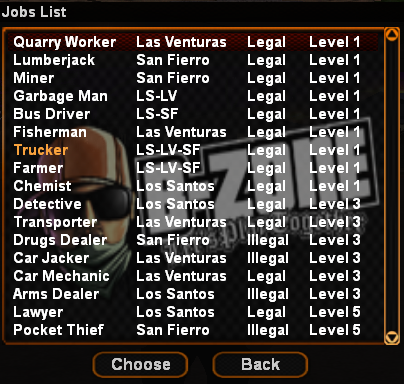
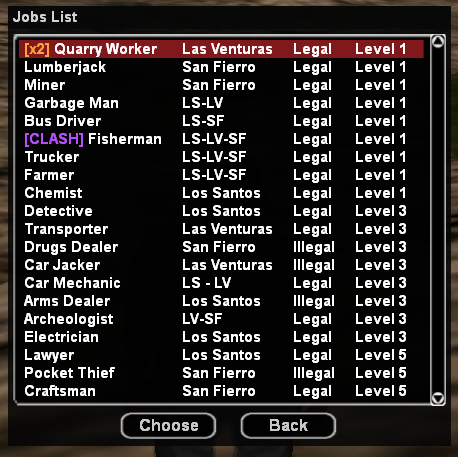
New/Improvments & Changes
- safebox moved from other systems to shop
- updated /jobs interface image
- updated job of the day display
- added tutorial in main page for download game via torrent
- added job clash page
- added craftman airship delivery method
- increased craftman material limit for skill 10 to 1999
- modified Egyptian trade reroll mechanic

diff --git a/docs/wiki-info/main_page.md b/docs/wiki-info/main_page.md
@@ -15,8 +15,26 @@
 <h1 align="left" style="padding-top: 50px; font-weight: 700">Joacă SA-MP</h1>
 <div align="center">
 <img src="https://b-zone.ro/assets/icons/gta_sa.jpg" width="35" style="vertical-align:middle; border-radius: 5px;"> <b>1. Instalează GTA San Andreas</b></img>
-</p>Descarcă fișierul executabil din link-ul de mai jos pentru a instala jocul de bază.<br>Locația de instalare o puteți alege oriunde doriți în PC, doar să o rețineți deoarece aveți nevoie de ea să știți unde să înstalați SA-MP.</p>
-<a href="https://b-zone.ro/downloads/GTA_B-Zone_Installer.exe"><button style="padding-top: 15px; padding-bottom: 15px; padding-left: 40px;padding-right: 40px; background-color: #7453f5; border-color:#7453f5; border-style: solid; border-radius: 10px; font-family: Lucida Sans Unicode; font-weight: 700; letter-spacing: 2px; color: white; font-size: 1.25rem; line-height: 1.75rem; cursor:pointer; font-size: 18px;">DESCARCĂ</button></a>
+<p style="padding-top: 20px;"><span style="font-weight: bold; font-size: 24px; text-decoration: underline; letter-spacing: 2px;">METODA I</span><br><span style="font-weight: bold; letter-spacing: 1px;">PRIN FIȘIER INSTALLER (.exe)</span></p>
+<p style="line-height: 35px;">Descarcă fișierul executabil din link-ul de mai jos pentru a instala jocul de bază.<br>Locația de instalare o puteți alege oriunde doriți în PC, doar să o rețineți deoarece aveți nevoie de ea să știți unde să înstalați SA-MP.</p>
+<a href="https://b-zone.ro/downloads/GTA_B-Zone_Installer.exe"><button style="margin-top: 15px; padding-top: 15px; padding-bottom: 15px; padding-left: 40px;padding-right: 40px; background-color: #7453f5; border-color:#7453f5; border-style: solid; border-radius: 10px; font-family: Lucida Sans Unicode; font-weight: 700; letter-spacing: 2px; color: white; font-size: 1.25rem; line-height: 1.75rem; cursor:pointer; font-size: 18px;">DESCARCĂ</button></a>
+<p style="padding-top: 60px;"><span style="font-weight: bold; font-size: 24px; text-decoration: underline; letter-spacing: 2px;">METODA II</span><br><span style="font-weight:bold; letter-spacing: 1px;">PINTR-O UNITATE VIRTUALA (.iso)</span></p>
+<details>
+<summary style="font-weight: bold; font-style: italic;">Citeste mai mult</summary>
+<p style="line-height: 35px;"><b>1.</b> Pentru a putea descarca jocul GTA San Andreas, aveti nevoie de aplicația <a href="http://www.utorrent.com/intl/en/downloads/complete/track/stable/os/windows">µTorrent</a>.<br>
+<b>2.</b> Descărcarea imaginii .iso este facilitată de <a href="magnet:?xt=urn:btih:6abb5be16784ee66dd2f1dbd5cb86730464974e0&dn=Grand+Theft+Auto+San+Andreas-HOODLUM+&tr=udp%3A%2F%2Ftracker.leechers-paradise.org%3A6969&tr=udp%3A%2F%2Fzer0day.ch%3A1337&tr=udp%3A%2F%2Fopen.demonii.com%3A1337&tr=udp%3A%2F%2Ftracker.coppersurfer.tk%3A6969&tr=udp%3A%2F%2Fexodus.desync.com%3A6969">acest torrent (magnet) (3.95 GB)</a> pe care trebuie să îl accesați.<br>
+<b>3.</b> Aplicația µTorrent va începe descărcarea jocului GTA San Andreas.<br>
+<b>4.</b> După finalizarea descărcarii jocului, veți găsi un fișier denumit <b><i>hlm-gtasa.iso</i></b>. Pentru a deschide fișierul respectiv, există mai multe soluții, cea mai eficientă fiind folosirea software-ului <a href="http://www.disk-tools.com/download/daemon">Daemon Tools</a>.<br>
+<b>5.</b> După descărcarea și instalarea software-ului Daemon Tools, se va apăsa click-dreapta pe fișierul <b><i>hlm-gtasa.iso</i></b>, se va selecta <b>Deschide cu/Open with</b> și se va apăsa pe campul care descrie Daemon Tools.<br>
+<b>6.</b> În cateva momente, computerul se va comporta ca și cum ați fi introdus un stick USB, iar în <b>My Computer</b> va aparea o nouă unitate virtuală (similara cu partițiile computer-ului, Local Disk D, Local Disk C, etc.).<br>
+<b>7.</b> Deschideți respectiva unitate virtuală, care poartă numele jocului și accesați fișierul <b><i>setup.exe</i></b>.<br>
+<b>8.</b> Urmați instructiunile oferite și instalați GTA San Andreas. Este recomandat, dar nu obligatoriu, să instalați jocul intr-o partiție diferită de cea în care sistemul de operare este instalat.<br>
+<b>9.</b> După finalizarea instalarii jocului GTA San Andreas, accesați din nou unitatea virtuală creată la punctul 6. Veți găsi un folder denumit <b><i>HOODLUM</i></b>, accesați-l și copiați fișierele din conținutul acestuia, după care plasați-le în folderul în care tocmai ați instalat jocul GTA San Andreas (copy & paste).<br>
+<b>10.</b> După finalizarea pașilor anteriori, dacă doriți să eliminați unitatea virtuala creată la punctul 6, apăsați click dreapta pe aceasta și selectați <b>Eject</b>.<br>
+<b>11.</b> De asemenea, software-urile folosite pentru descărcarea jocului (Daemon Tools și µTorrent) se pot dezinstala din panoul de control al computer-ului.</p>
+
+<iframe width="560" height="315" src="https://www.youtube.com/embed/4FV8EzWFpjw" frameborder="0" allowfullscreen></iframe>
+</details>
 </div>
 
 <div align="center" style="padding-top:100px">

diff --git a/docs/wiki-info/main_page.en.md b/docs/wiki-info/main_page.en.md
@@ -15,8 +15,26 @@
 <h1 align="left" style="padding-top: 50px; font-weight: 700">Play SA-MP</h1>
 <div align="center">
 <img src="https://b-zone.ro/assets/icons/gta_sa.jpg" width="35" style="vertical-align:middle; border-radius: 5px;"> <b>1. Install GTA San Andreas</b></img>
-</p>Download the executable file from the link below and install the main game.<br>You can choose the installation location anywhere you want on your PC, just remember it because you need it to know where to install SA-MP.</p>
-<a href="https://b-zone.ro/downloads/GTA_B-Zone_Installer.exe"><button style="padding-top: 15px; padding-bottom: 15px; padding-left: 40px;padding-right: 40px; background-color: #7453f5; border-color:#7453f5; border-style: solid; border-radius: 10px; font-family: Lucida Sans Unicode; font-weight: 700; letter-spacing: 2px; color: white; font-size: 1.25rem; line-height: 1.75rem; cursor:pointer; font-size: 18px;">DOWNLOAD</button></a>
+<p style="padding-top: 20px;"><span style="font-weight: bold; font-size: 24px; text-decoration: underline; letter-spacing: 2px;">METHOD I</span><br><span style="font-weight: bold; letter-spacing: 1px;">VIA INSTALLER FILE (.exe)</span></p>
+<p style="line-height: 35px;">Download the executable file from the link below to install the base game.<br>You can choose the installation location anywhere you want on your PC, just remember it because you need it to know where to install SA-MP.</p>
+<a href="https://b-zone.ro/downloads/GTA_B-Zone_Installer.exe"><button style="margin-top: 15px; padding-top: 15px; padding-bottom: 15px; padding-left: 40px; padding-right: 40px; background-color: #7453f5; border-color: #7453f5; border-style: solid; border-radius: 10px; font-family: Lucida Sans Unicode; font-weight: 700; letter-spacing: 2px; color: white; font-size: 1.25rem; line-height: 1.75rem; cursor: pointer; font-size: 18px;">DOWNLOAD</button></a>
+<p style="padding-top: 60px;"><span style="font-weight: bold; font-size: 24px; text-decoration: underline; letter-spacing: 2px;">METHOD II</span><br><span style="font-weight:bold; letter-spacing: 1px;">VIA VIRTUAL DRIVE (.iso)</span></p>
+<details>
+<summary style="font-weight: bold; font-style: italic;">Read more</summary>
+<p style="line-height: 35px;"><b>1.</b> To download the GTA San Andreas game, you need the <a href="http://www.utorrent.com/intl/en/downloads/complete/track/stable/os/windows">µTorrent</a> application.<br>
+<b>2.</b> Downloading the .iso image is facilitated by <a href="magnet:?xt=urn:btih:6abb5be16784ee66dd2f1dbd5cb86730464974e0&dn=Grand+Theft+Auto+San+Andreas-HOODLUM+&tr=udp%3A%2F%2Ftracker.leechers-paradise.org%3A6969&tr=udp%3A%2F%2Fzer0day.ch%3A1337&tr=udp%3A%2F%2Fopen.demonii.com%3A1337&tr=udp%3A%2F%2Ftracker.coppersurfer.tk%3A6969&tr=udp%3A%2F%2Fexodus.desync.com%3A6969">this torrent (magnet) (3.95 GB)</a> that you need to access.<br>
+<b>3.</b> The application µTorrent will start downloading the GTA San Andreas game.<br>
+<b>4.</b> After the game download is complete, you will find a file named <b><i>hlm-gtasa.iso</i></b>. To open the file, there are several solutions, the most efficient being the use of the <a href="http://www.disk-tools.com/download/daemon">Daemon Tools</a> software.<br>
+<b>5.</b> After downloading and installing the Daemon Tools software, right-click on the <b><i>hlm-gtasa.iso</i></b> file, select <b>Open with</b> and click on the field that describes Daemon Tools.<br>
+<b>6.</b> In a few moments, the computer will behave as if you had inserted a USB stick, and a new virtual drive will appear in <b>My Computer</b> (similar to the computer partitions, Local Disk D, Local Disk C, etc.).<br>
+<b>7.</b> Open the virtual drive, which bears the name of the game, and access the file <b><i>setup.exe</i></b>.<br>
+<b>8.</b> Follow the instructions provided and install GTA San Andreas. It is recommended, but not mandatory, to install the game in a different partition than the one where the operating system is installed.<br>
+<b>9.</b> After completing the installation of the GTA San Andreas game, access the virtual drive created in point 6 again. You will find a folder called <b><i>HOODLUM</i></b>, access it and copy the files from its contents, then place them in the folder where you just installed the GTA San Andreas game (copy & paste).<br>
+<b>10.</b> After completing the previous steps, if you want to remove the virtual drive created in point 6, right-click on it and select <b>Eject</b>.<br>
+<b>11.</b> Also, the software used to download the game (Daemon Tools and µTorrent) can be uninstalled from the computer's control panel.</p>
+
+<iframe width="560" height="315" src="https://www.youtube.com/embed/4FV8EzWFpjw" frameborder="0" allowfullscreen></iframe>
+</details>
 </div>
 
 <div align="center" style="padding-top:100px">

diff --git a/docs/wiki-info/other-systems/egyptian-trader-shop.en.md b/docs/wiki-info/other-systems/egyptian-trader-shop.en.md
@@ -60,14 +60,24 @@ The skin upgrade system is based on Tickets and Fragments. These are very well k
   <figcaption>Skin viewing #2</figcaption>
 </figure>
 
-## Reroll mechanic
-* If the player doesn't like the bonuses received and wants to change them without changing the skin completely, they can change them **using the Reroll option** at the *Egyptian Trader*.
-* Note that you will have to pay the full price again and you may receive weaker or better bonuses depending on luck.
-* If you choose to use the *reroll option* and own a <span style="color:#11c8fa">**Diamond**</span> Skin, you will receive another 2 random bonuses that will replace the existing bonuses.
-* Note: Bonuses are random, so there is a chance to receive the same bonuses but with different values.*
-* If you own an <span style="color:#fa8e0a">**Onyx**</span> Skin and use the *reroll option*, all 4 bonuses on the skin will be reset.
+## Reroll Mechanic
+* If the player does not like the bonuses received and wants to change them without changing the skin completely, he can change them **using the Reroll option** at the *Egyptian Trader*.
+* The review consists of selecting the bonuses that need to be changed and those that should be kept.
+* Keep in mind that you will have to pay an amount of money, mission points and tickets of the respective skin type depending on how many bonuses you want to keep on the current skin.
+* There is a possibility that the bonuses you receive will be weaker or better depending on luck.
+* An interface will open with all your bonuses on the skin and several buttons with an **X** on the right, immediately after opening the interface.
+* These buttons change the status of keeping the bonus when pressed.
+    * If the button to the right of the bonus name is marked with an **X**, pressing it will mark the button with a check mark.
+    * A check mark marks a bonus that will be **CHANGED**, **X** marks a bonus that will be **KEPT**. **Be careful not to confuse them!**
+* After this process, the **CONFIRM** button can be pressed and will open a confirmation window with all the necessary information, such as which bonuses will be exchanged and which will be kept.
+* The reroll prices are as follows:
+    * One bonus will cost **$1,000,000** and **50 MP**. These requirements will increase for each bonus that is exchanged on the skin, as follows:
+        * 2 exchanged bonuses will require **$2,000,000** and **100 MP**.
+        * 3 exchanged bonuses will require **$3,000,000** and **150 MP**.
+  * If you exchange **1 or 2 bonuses**, you will need **1 ticket** of the skin type.
+  * If you exchange **3 or 4 bonuses**, you will need **2 tickets** of the skin type.
 
-## Fusion mechanic
+## Fusion Mechanic
 
 * Players will be able to fuse two <span style="color:#11c8fa">**Diamond**</span> skins or two <span style="color:#fa8e0a">**Onyx**</span> skins regardless of gender and will keep only one skin at the end of the fusion (_see image **#3**_).
 
@@ -153,6 +163,8 @@ There are 4 rarities of Diamond/Onyx skins:
     * **Diamond Tickets:** 1 for 160 Gold or $80,000.
     * **Onyx Fragments:** 1 for 40 Gold or $20,000.
     * **Onyx Tickets:** 1 for 200 Gold or $100,000.
+    * **Skin Upgrade Ticket:** 1 for 120 Gold or $60.000.
+    * **Skin Upgrade Fragment** 1 for 24 Gold or $12.000.
 
 ## Bonuses
 * To check a skin's bonuses use the /skinbonus command.<br/>

diff --git a/docs/wiki-info/other-systems/egyptian-trader-shop.md b/docs/wiki-info/other-systems/egyptian-trader-shop.md
@@ -62,14 +62,24 @@ Sistemul de upgrade al skinurilor se bazeaza pe Tichete şi Fragmente. Acestea s
 </figure>
 
 
-## Mecanica de reroll
+## Mecanica de Reroll
 * Daca jucatorului nu-i plac bonusurile primite si doreste sa le schimbe fara a schimba skinul cu totul, acesta poate sa le schimbe **folosind optiunea de Reroll** la *Traderul Egiptean*.
-* De retinut ca va trebui sa platiti din nou pretul intreg si ca s-ar putea sa primiti bonusuri mai slabe sau mai bune in functie de noroc.
-* Daca alegeti sa folositi *optiunea de reroll* si detineti un Skin <span style="color:#11c8fa">**Diamond**</span>, veti primi alte 2 bonusuri aleatorii care vor inlocui bonusurile deja existente.
-* Nota: Bonusurile sunt aleatorii, asadar exista sansa sa primesti aceleasi bonusuri dar cu valori diferite.*
-* Daca detineti un Skin <span style="color:#fa8e0a">**Onyx**</span> si folositi *optiunea de reroll*, toate cele 4 bonusuri de pe skin vor fi resetate.
+* Revizuirea consta in selectarea bonusurilor care trebuie schimbate si a celor care ar trebui pastrate.
+* De retinut ca va trebui sa platiti o sumă de bani, puncte de misiune si tickete de tipul skin-ului respectiv in functie de cate bonusuri vreti sa pastrati pe skinul curent. 
+* Exista posiblitatea ca bonusurile pe care le primiti sa fie mai slabe sau mai bune in functie de noroc.
+* O interfata va fi deschisa cu toate bonusurile tale pe skin si cateva butoane cu un **X** in dreapta, imediat dupa deschiderea interfetei.
+* Aceste butoane schimba statutul pastrarii bonusului cand sunt apasate.
+    * Daca butonul din dreapta numelui bonusului este marcat cu un **X**, apasarea lui va marca butonul cu o bifa.
+    * Bifa marcheaza un bonus care va fi **SCHIMBAT**, **X** marcheaza un bonus care va fi **PASTRAT**. **Mare atentie sa nu le confundati intre ele !**
+* Dupa acest proces, butonul **CONFIRM** poate fi apasat si va deschide o fereastra de confirmare cu toate informatiile necesare, cum ar fi ce bonusuri vor fi schimbate si care vor fi pastrate.
+* Preturile de reroll sunt urmatoarele:
+    * Un bonus va costa **$1.000.000** si **50 MP**. Aceste cerinte vor creste pentru fiecare bonus care este schimbat pe skin, dupa cum urmeaza:
+        * 2 bonusuri schimbate vor necesita **$2.000.000** si **100 MP**.
+        * 3 bonusuri schimbate vor necesita **$3.000.000** si **150 MP**.
+    * Daca schimbi **1 sau 2 bonusuri**, vei avea nevoie de **1 ticket** de tipul skin-ului.
+    * Daca schimbi **3 sau 4 bonusuri**, vei avea nevoie de **2 tickete** de tipul skin-ului.
 
-## Mecanica de fuzionare
+## Mecanica de Fuzionare
 
 * Jucatorii vor putea fuziona doua skinuri <span style="color:#11c8fa">**Diamond**</span> sau doua skinuri <span style="color:#fa8e0a">**Onyx**</span> indiferent de sex si vor pastra un singur skin la finalul fuzionarii (_vezi imaginea **#3**_).
 
@@ -156,6 +166,8 @@ Exista 4 raritati ale skinurilor Diamond/Onyx:
     * **Diamond Tickets:** 1 pentru 160 Gold sau 80,000$.
     * **Onyx Fragments:** 1 pentru 40 Gold sau 20,000$.
     * **Onyx Tickets:** 1 pentru 200 Gold sau 100,000$.
+    * **Skin Upgrade Ticket:** 1 pentru 120 Gold sau $60.000.
+    * **Skin Upgrade Fragment** 1 pentru 24 Gold sau $12.000.
 
 ## Bonusuri
 * Pentru a verifica bonusurile unui skin se va folosi comanda /skinbonus.<br/>

diff --git a/docs/wiki-info/jobs/craftsman.en.md b/docs/wiki-info/jobs/craftsman.en.md
@@ -31,7 +31,7 @@ icon: material/hammer
 
 The job location can be seen in image **#2**. The craftsman job consists of gathering the necessary materials to create carpentry objects, processing and transporting them to the House Upgrade business. Dexterity for creating artisan objects will be gained over time, gaining more experience and being able to craft objects of greater complexity and value.
 
-## General characteristics
+## General Characteristics
 
 * The job is legal, located in San Fierro in the King's area (**near Bank SF**) and you can work here starting from level 5.
 * The job has four main activities:
@@ -58,7 +58,9 @@ The job location can be seen in image **#2**. The craftsman job consists of gath
     * between Skill 7 and Skill 8 you can process chairs, tables and accessories
     * between Skill 9 and Skill 10 you can process chairs, tables, accessories and doors
 * You can work at this job while having a criminal record (wanted).
-* The maximum amount of materials (gold bars/cotton/wood/silver) that the player can collect is 999.
+* The maximum amount of materials (gold/cotton/wood/silver ingots) that the player can collect differs depending on the job skill:
+    * Skill 1 - 9: 999 maximum.
+    * Skill 10: 1999 maximum.
 * You can view the amount of materials you have through the commands **/inventory**, **/inventar**, **/backpack** or **/inv** if you have at least skill 3 at this job or at **Archeologist** job.
 
 ## Artisan articles
@@ -257,6 +259,15 @@ You can obtain silver by working at Quarry Worker, the silver earnings are as fo
 - Tunable: TransFender
 
 *From Skill 5 - Any personal vehicle*
+
+## Air Delivery
+* Players can use private jets or helicopters to deliver crafted furniture.
+* This functionality is unlocked at **skill 10**. Up until skill 10, deliveries will be made using a private car as usual.
+* The air delivery option uses a separate delivery system designed specifically for aircraft.
+* Instead of driving to the destination, players with skill 10 can complete deliveries by airdropping the package directly to the target location (House Upgrade Business).
+* The aircraft allowed for transport are:
+    * Helicopters: Leviathan, Sparrow, Maverick, Cargobob, Raindance.
+    * Airplanes: Skimmer, Beagle, Cropduster, Stuntplane, Shamal, Nevada, Dodo.
 
 ## Runs needed for skill advancement
 

diff --git a/docs/wiki-info/jobs/craftsman.md b/docs/wiki-info/jobs/craftsman.md
@@ -58,7 +58,9 @@ Locatia jobului poate fi vizualizata in imaginea **#2**. Jobul de Mester consta 
     * intre Skill 7 si Skill 8 veti putea prelucra scaune, mese si accesorii
     * intre Skill 9 si Skill 10 veti putea prelucra scaune, mese, accesorii si usi
 * La acest job puteti lucra avand cazier (wanted).
-* Cantitatea maxima de materiale (lingouri de aur/bumbac/lemn/argint) pe care jucatorul o poate aduna este de 999.
+* Cantitatea maxima de materiale (lingouri de aur/bumbac/lemn/argint) pe care jucatorul o poate aduna difera in functie de skill-ul la job:
+    * Skill 1 - 9: 999 maxim.
+    * Skill 10: 1999 maxim.
 * Puteti vizualiza cantitatea de materiale pe care o aveti prin intermediul comenzilor, **/inventory**, **/inventar**, **/backpack** sau **/inv** daca detineti minim skill 3 la acest job sau la jobul **Arheolog**.
 
 ## Articolele Artizanale
@@ -257,6 +259,15 @@ Puteti face rost de argint lucrand la Muncitor la Cariera, castigul de argint es
 - Tunabil: TransFender
 
 *De la Skill 5 - Orice vehicul personal*
+
+## Livrarea cu Aeronave
+* Jucatorii pot folosi avioane private sau elicoptere pentru a livra mobila craftata.
+* Aceasta functionalitate este deblocată la **skill 10**. Pana la skill 10 se va livra folosind o masina privata ca de obicei.
+* Optiunea de livrare aeriana foloseste un sistem de livrare separat proiectat specific pentru aeronave.
+* In loc sa conduci la destinatie, jucatorii cu skill 10 pot finaliza livrarile prin aruncarea pachetului din aer direct catre locatia tinta (House Upgrade Business).
+* Aeronavele permise pentru transport sunt:
+    * Elicoptere: Leviathan, Sparrow, Maverick, Cargobob, Raindance.
+    * Avioane: Skimmer, Beagle, Cropduster, Stuntplane, Shamal, Nevada, Dodo.
 
 ## Curse necesare pentru avansarea in skill
 

diff --git a/docs/wiki-info/jobs/job-clash.md b/docs/wiki-info/jobs/job-clash.md
@@ -1,0 +1,32 @@
+---
+icon: material/account-group
+---
+
+# Jobul Clash
+
+<figure markdown="span">
+  ![Jobs list](/images/wiki/jobs/Jobs_list.png){ width="300" }
+  <figcaption>#1 Jobul clash, marcat cu CLASH</figcaption>
+</figure>
+
+Job Clash este o competitie zilnica intre jucatori. In fiecare zi, un job devine Clash Job, si jucatorii concureaza completand cat mai multe curse de succes posibil la acel job.
+
+## Cum participi ?
+Lucrează la Clash Job-ul activ si completează curse normal. Fiecare cursă de succes contează ca +1 cursă către scorul tău zilnic.<br>
+După fiecare cursă de succes, vei primi un mesaj de confirmare arătând cursele totale pentru zi.
+
+## Castigatori zilnici si recompense
+- La miezul noptii, Job Clash se termina, castigatorii sunt anuntati, si recompensele sunt date automat:
+    - Jucatorul de pe locul 1 primeste - **$200,000**.
+    - Jucatorul de pe locul 2 primeste - **$100,000**.
+    - Jucatorul de pe locul 3 primeste - **$50,000**.
+- Dupa ce recompensele sunt distribuite, clasamentul este resetat si un Clash Job nou devine activ pentru ziua urmatoare.
+
+### Clasament
+Foloseste comanda [/jobclash] pentru a vizualiza clasamentul curent. Clasamentul arata Nume Jucator – Curse, sortate de la cel mai mare la cel mai mic.
+
+## Informatii Suplimentare
+- Job Clash poate rula in acelasi timp cu Job of the Day (ambele pot fi active impreuna).
+- Doar cursele de succes completate la Clash Job-ul activ conteaza catre clasament. Cursele de la alte job-uri nu vor fi inregistrate pentru Job Clash.
+- Daca doi sau mai multi jucatori termina cu acelasi numar de curse, pozitia mai inalta va fi acordata jucatorului mai vechi.
+- Castigatorii vor primi recompensele chiar daca sunt offline la miezul noptii.

diff --git a/docs/wiki-info/jobs/job-clash.en.md b/docs/wiki-info/jobs/job-clash.en.md
@@ -1,0 +1,32 @@
+---
+icon: material/account-group
+---
+
+# Job Clash
+
+<figure markdown="span">
+![Jobs list](/images/wiki/jobs/Jobs_list.png){ width="300" }
+<figcaption>#1 Job Clash, marked with CLASH</figcaption>
+</figure>
+
+Job Clash is a daily competition between players. Each day, a job becomes a Clash Job, and players compete to complete as many successful runs as possible on that job.
+
+## How do you participate?
+Work on your active Clash Job and complete runs normally. Each successful run counts as +1 run towards your daily score.<br>
+After each successful run, you will receive a confirmation message showing your total runs for the day.
+
+## Daily Winners and Rewards
+- At midnight, the Job Clash ends, the winners are announced, and the rewards are automatically given:
+- The 1st place player receives - **$200,000**.
+- The 2nd place player receives - **$100,000**.
+- The 3rd place player receives - **$50,000**.
+- After the rewards are distributed, the leaderboard is reset and a new Clash Job becomes active for the next day.
+
+### Leaderboard
+Use the command [/jobclash] to view the current leaderboard. The leaderboard shows Player Name – Races, sorted from highest to lowest.
+
+## Additional Information
+- Job Clash can run at the same time as Job of the Day (both can be active together).
+- Only successfully completed races in the active Clash Job count towards the leaderboard. Races from other jobs will not be recorded for Job Clash.
+- If two or more players finish with the same number of races, the higher position will be awarded to the older player.
+- Winners will receive rewards even if they are offline at midnight.

diff --git a/docs/wiki-info/jobs/daily-job.md b/docs/wiki-info/jobs/daily-job.md
@@ -5,13 +5,13 @@ icon: material/calendar-star
 # Jobul Zilei
 
 <figure markdown="span">
-  ![Jobs list](/images/wiki/general/Jobs_list.png){ width="300" }
-  <figcaption>#1 Jobul zilei, marcat cu portocaliu</figcaption>
+  ![Jobs list](/images/wiki/jobs/Jobs_list.png){ width="300" }
+  <figcaption>#1 Jobul zilei, marcat cu 2X</figcaption>
 </figure>
 
-Jobul zilei este un nou sistem aparut pe serverele B-Zone, creat pentru a dubla castigurile la diferite joburi de pe server pe o perioada de 24 de ore.
+Jobul zilei este un sistem creat pentru a dubla castigurile la diferite joburi de pe server pe o perioada de 24 de ore.
 
-## Caracteristici generale
+## Caracteristici Generale
 
 * Este marcat diferit in lista joburilor de pe server (/jobs), se observa in imaginea #1.
 * In fiecare zi la ora 00:00 (ora serverului) jobul zilei se va schimba cu urmatorul job din lista.

diff --git a/docs/wiki-info/jobs/daily-job.en.md b/docs/wiki-info/jobs/daily-job.en.md
@@ -5,13 +5,13 @@ icon: material/calendar-star
 # Daily Job
 
 <figure markdown="span">
-  ![Jobs list](/images/wiki/general/Jobs_list.png){ width="300" }
-  <figcaption>#1 Daily Job, marked in orange</figcaption>
+  ![Jobs list](/images/wiki/jobs/Jobs_list.png){ width="300" }
+  <figcaption>#1 Daily Job, marked with X2</figcaption>
 </figure>
 
-The Daily Job is a new system introduced on B-Zone servers, created to double the earnings from various server jobs for a period of 24 hours.
+The Daily Job is a system created to double the earnings from various server jobs for a period of 24 hours.
 
-## General characteristics
+## General Characteristics
 
 * It is marked differently in the server's job list (/jobs), as shown in image #1.
 * Every day at 00:00 (server time) the daily job will change to the next job in the list.
